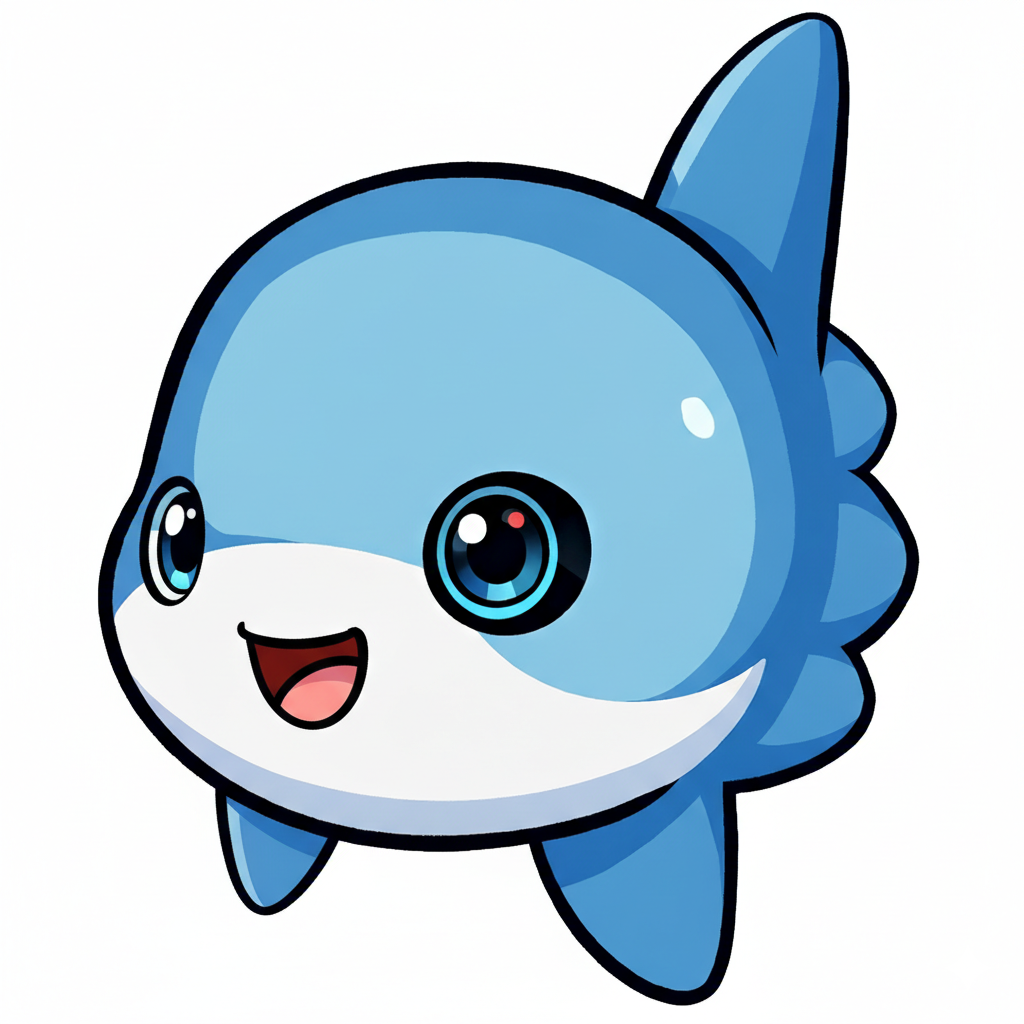
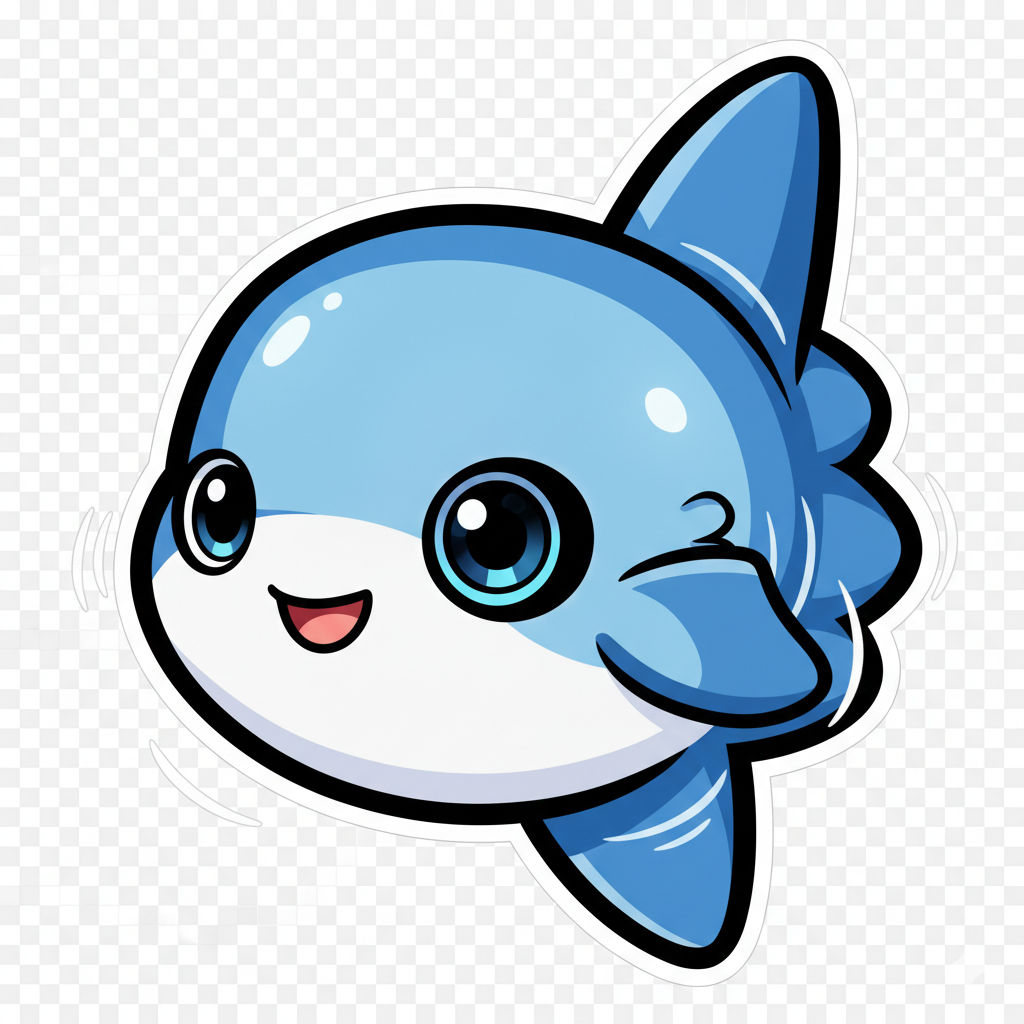
Refactor code structure for improved readability and maintainability

Changed region(s): [[0.0625, 0.0, 0.9375, 1.0]]

diff --git a/pi_camera_in_docker/static/js/app.js b/pi_camera_in_docker/static/js/app.js
@@ -1425,7 +1425,7 @@ function switchTab(tabName) {
 /**
  * Resolve mascot image assets provided on the page.
  *
- * @returns {{avatar: string, happy: string, curious: string, sleeping: string}}
+ * @returns {{avatar: string, happy: string, curious: string, sleeping: string, winking: string, floating: string}}
  */
 function getMioAssets() {
   const { dataset } = document.body;
@@ -1434,6 +1434,8 @@ function getMioAssets() {
     happy: dataset.mioHappy || DEFAULT_MIO_PATH,
     curious: dataset.mioCurious || DEFAULT_MIO_PATH,
     sleeping: dataset.mioSleeping || DEFAULT_MIO_PATH,
+    winking: dataset.mioWinking || DEFAULT_MIO_PATH,
+    floating: dataset.mioFloating || DEFAULT_MIO_PATH,
   };
 }
 

diff --git a/pi_camera_in_docker/templates/index.html b/pi_camera_in_docker/templates/index.html
@@ -24,6 +24,8 @@
     data-mio-happy="{{ url_for('static', filename='img/mio/mio_happy.png') }}"
     data-mio-curious="{{ url_for('static', filename='img/mio/mio_curious.png') }}"
     data-mio-sleeping="{{ url_for('static', filename='img/mio/mio_sleeping.png') }}"
+    data-mio-winking="{{ url_for('static', filename='img/mio/mio_winking.png') }}"
+    data-mio-floating="{{ url_for('static', filename='img/mio/mio_floating.svg') }}"
   >
     <div class="webcam-bg-pattern" aria-hidden="true"></div>
 
